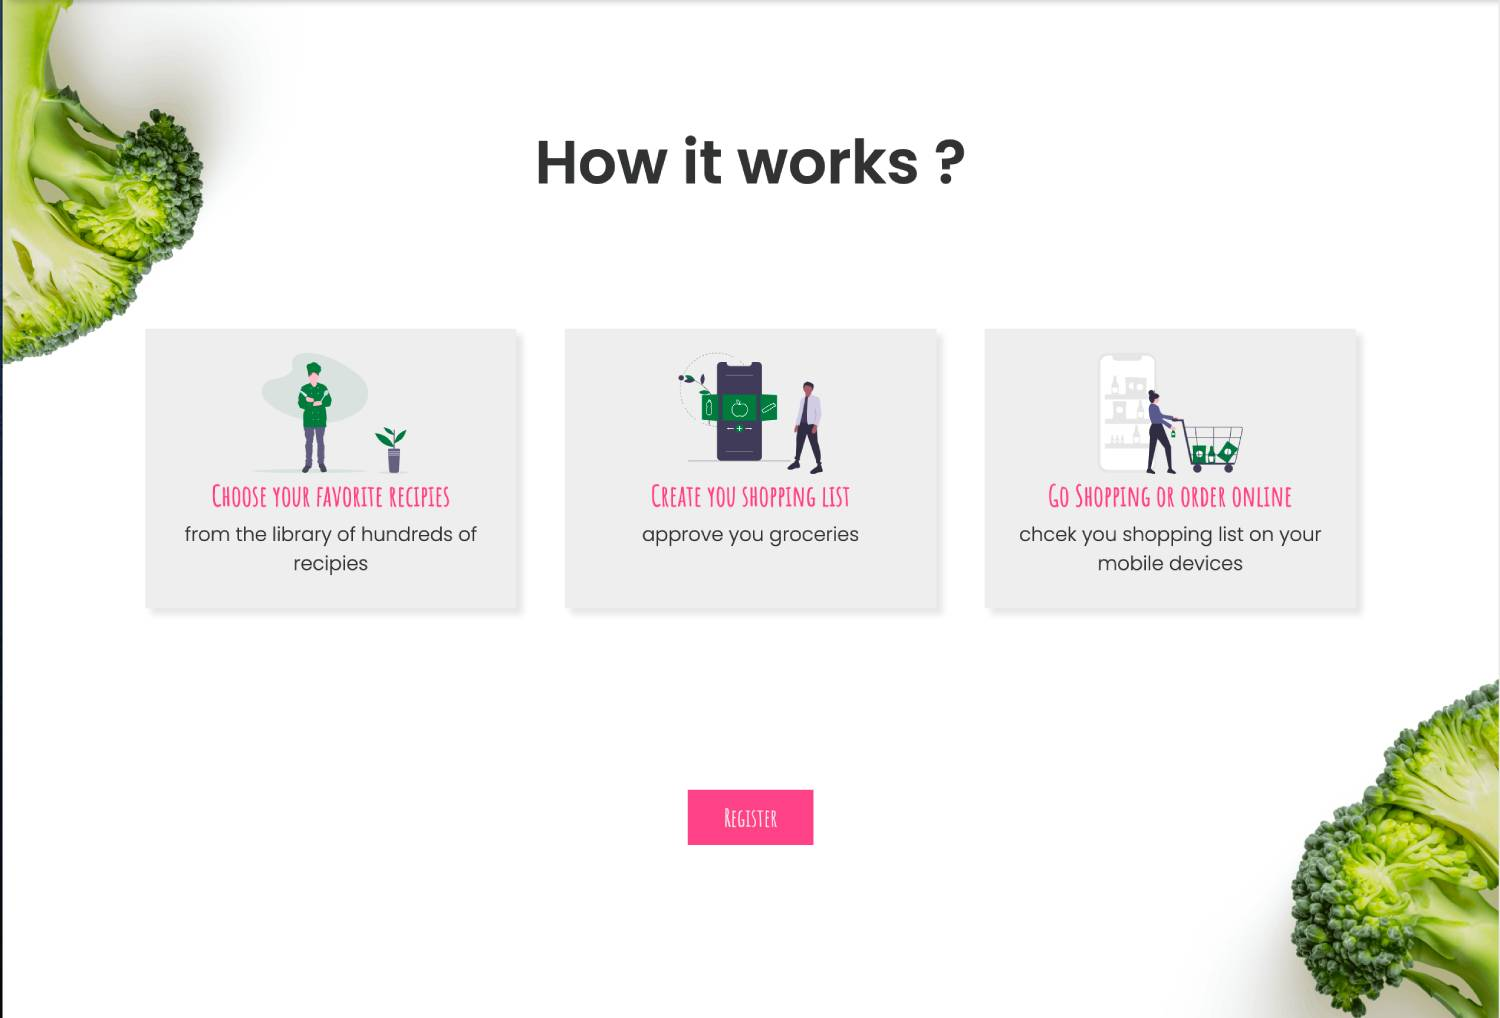
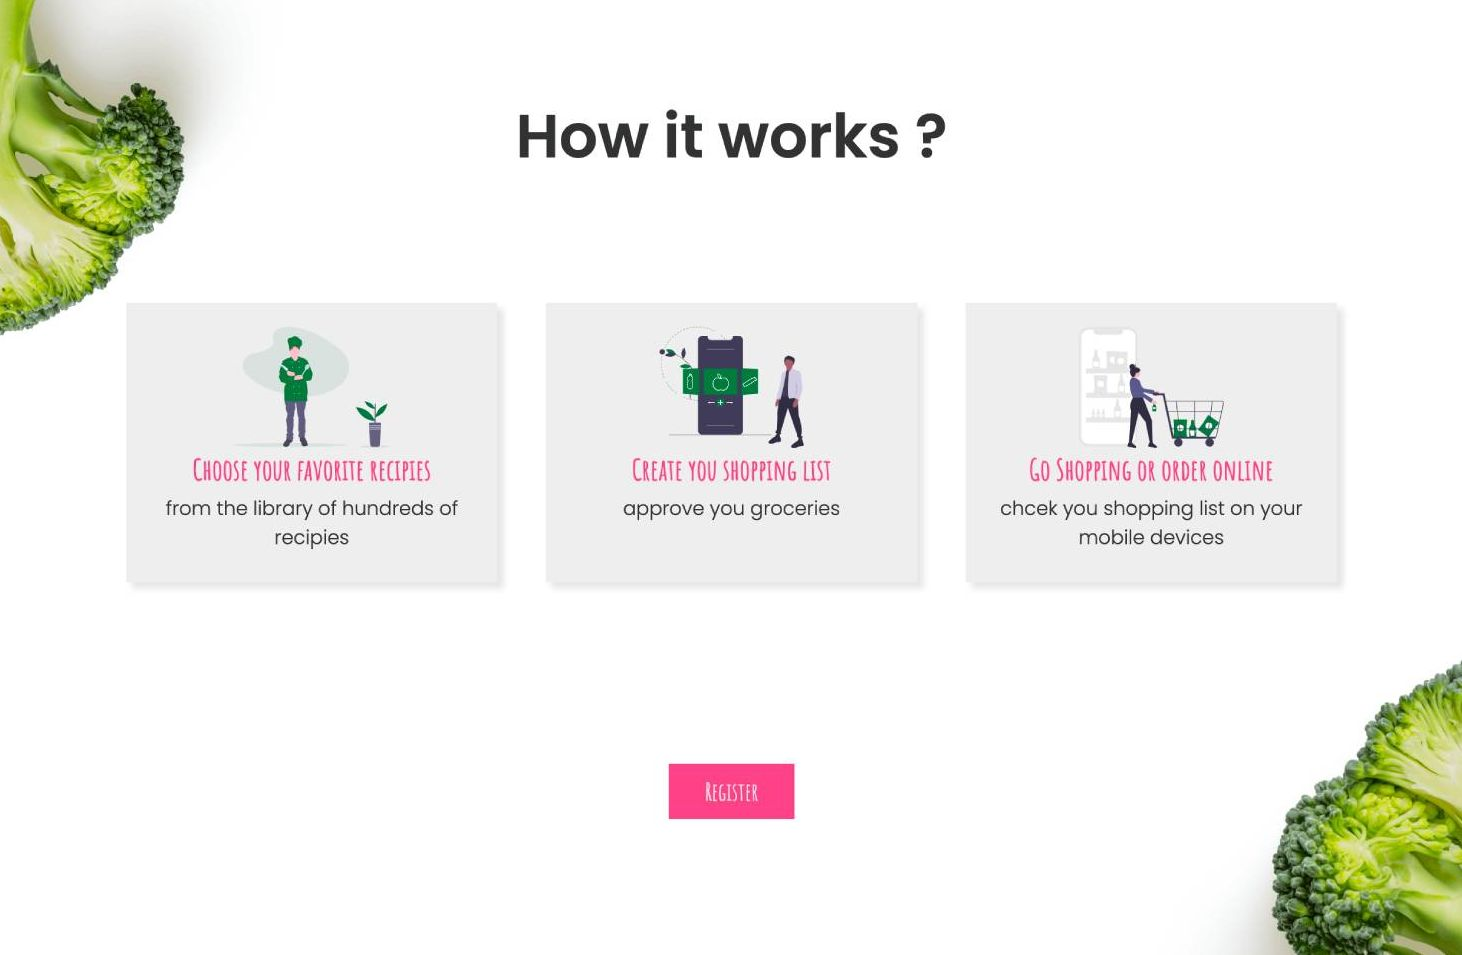
Crop image

diff --git a/index.html b/index.html
@@ -40,7 +40,7 @@
       <h2 class="heading-secondary">Projects</h2>
       <div class="project-card">
         <div class="project-card__image-cointainer">
-          <img src="img/hellofresh-example.png" alt="" class="project-card__image-cointainer__image">
+          <img src="img/hellofresh-example.jpg" alt="" class="project-card__image-cointainer__image">
         </div>
         <div class="project-card__text">
           <h3 class="heading-tertiary ">Feature Project</h3>
